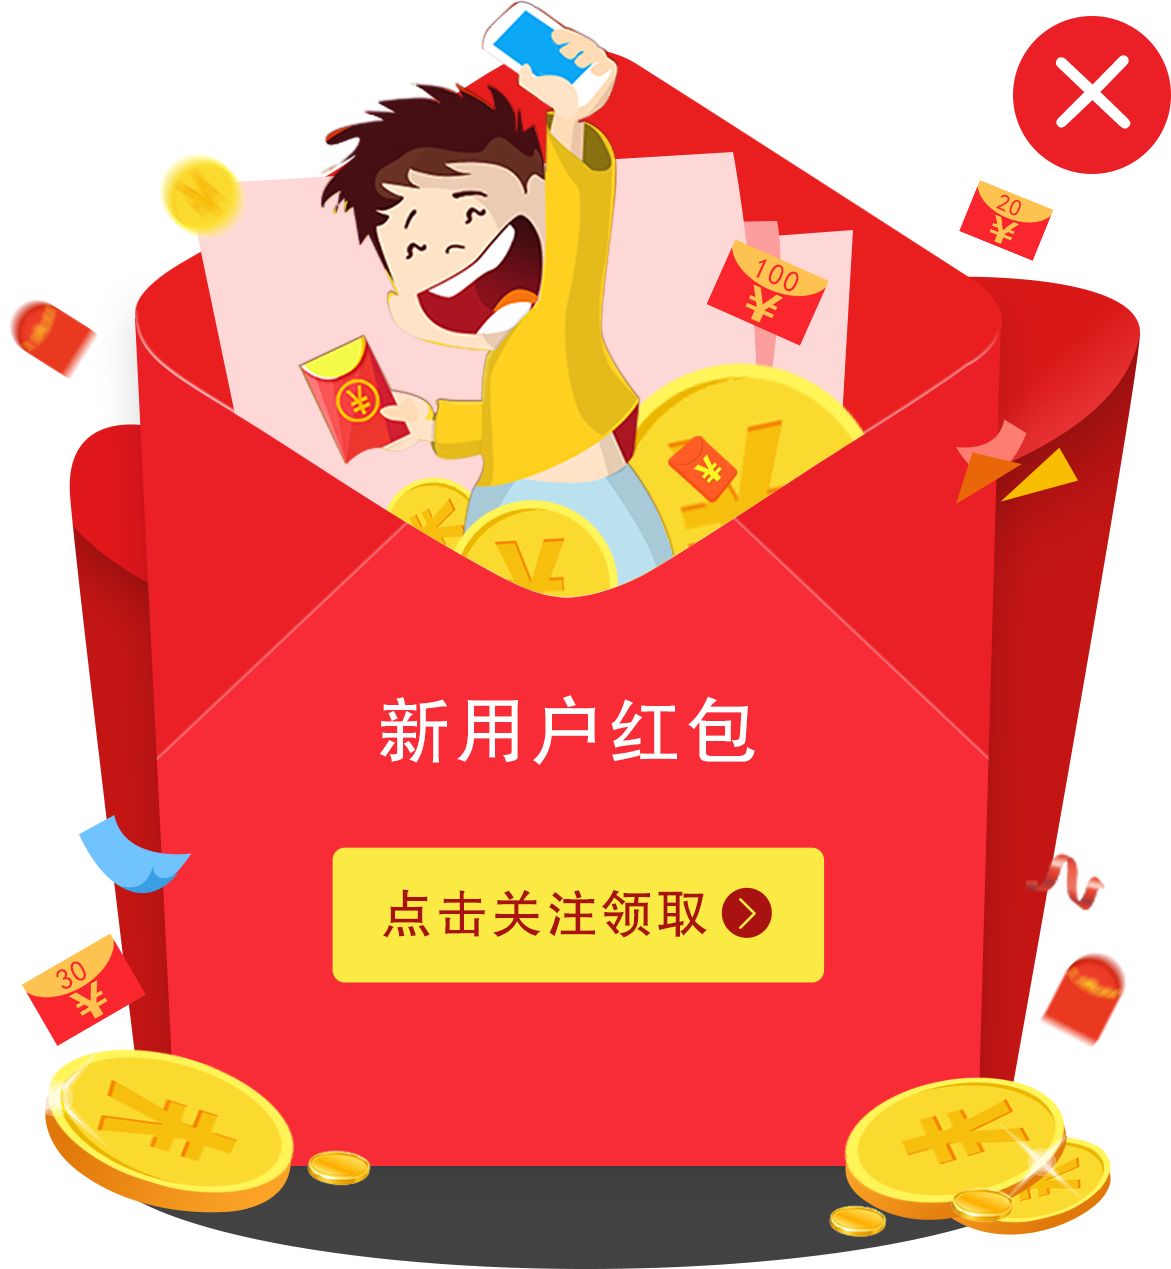
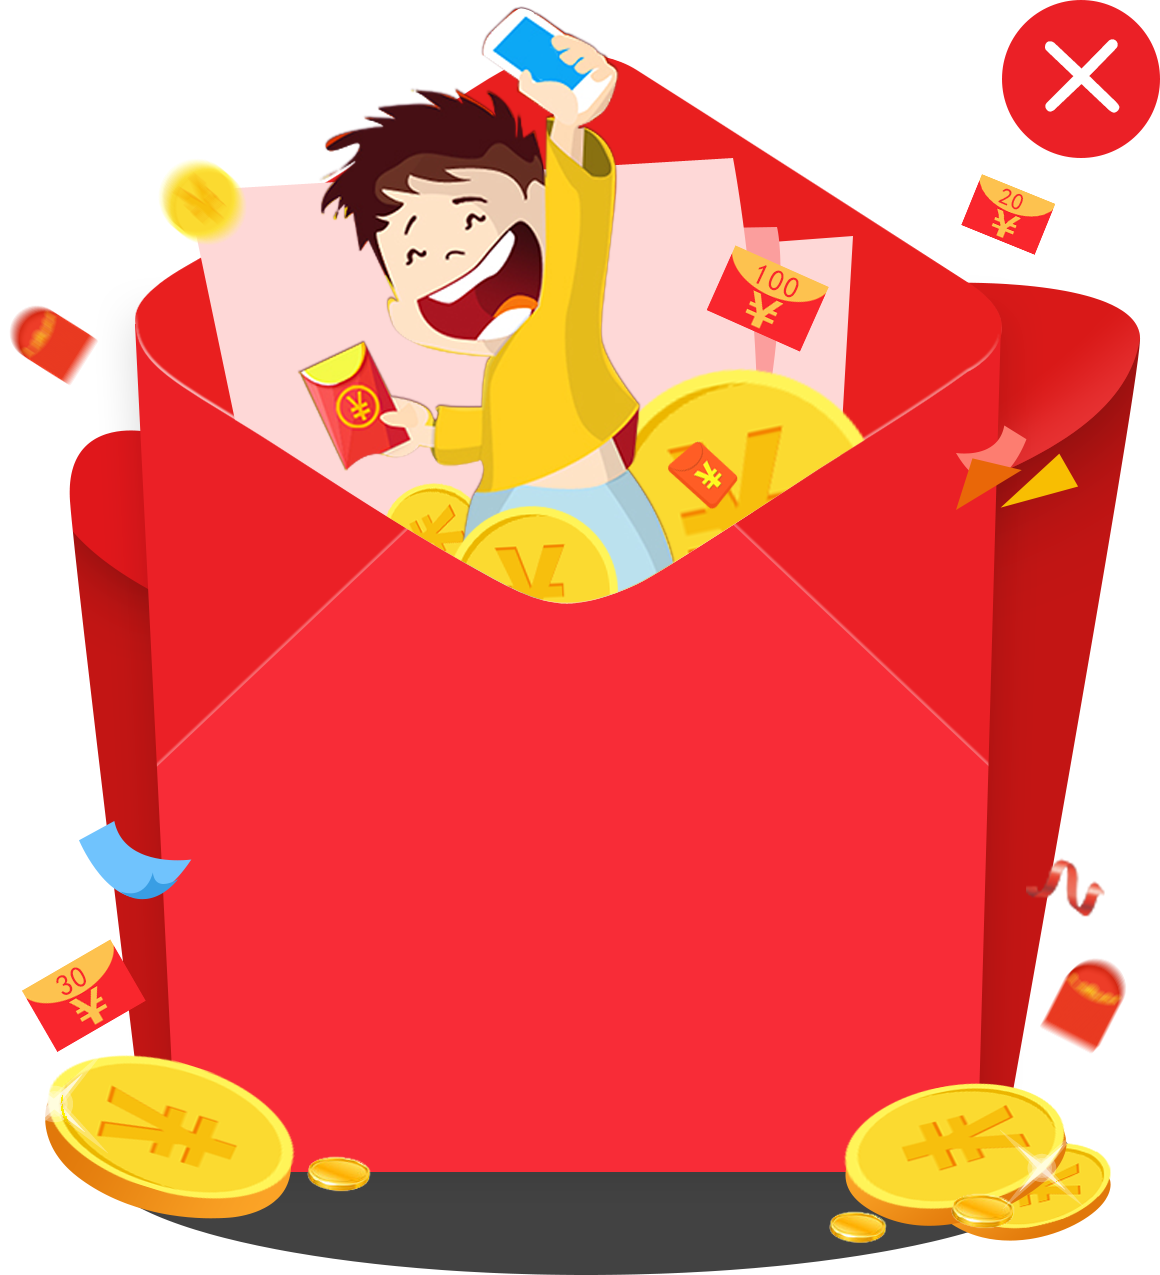
home user get red packet

diff --git a/app/pages/homePage/homePage-controller.js b/app/pages/homePage/homePage-controller.js
@@ -463,17 +463,43 @@ angular.module('homePage.controller', ['homePage.service'])
                     .then(function(json){
                         if(json.status_code == 0){
                             //console.log(angular.toJson(json));
-                            if(json.data.notify && json.data.is_user_followed){
-                                document.getElementById('red-packet').style.display = 'block';
-                                $scope.r_packet = true;
-                                $scope.show_packet = false;
-                            }
 
-                            if(json.data.notify && !json.data.is_user_followed){
+                            if(json.data.notify){
                                 document.getElementById('red-packet').style.display = 'block';
-                                $scope.r_packet = false;
-                                $scope.show_packet = true;
-                                $scope.coupon_count = json.data.coupon_count;
+                                if(json.data.is_user_followed && json.data.new_user){
+                                    //新用户已关注
+                                    $scope.is_new_user = true;
+                                    $scope.is_follow = false;
+
+                                    $scope.new_user_follew_yes = true;
+                                    $scope.new_user_follew_no = false;
+
+                                }else if(!json.data.is_user_followed && json.data.new_user){
+                                    //新用户未关注
+                                    $scope.is_new_user = true;
+                                    $scope.is_follow = false;
+
+                                    $scope.new_user_follew_yes = false;
+                                    $scope.new_user_follew_no = true;
+
+                                }else if(json.data.is_user_followed && !json.data.new_user){
+                                    //用户已关注
+                                    $scope.is_new_user = false;
+                                    $scope.is_follow = true;
+
+                                    $scope.user_follow_yes = true;
+                                    $scope.user_follow_no = false;
+
+                                }else if(!json.data.is_user_followed && !json.data.new_user){
+                                    //用户未关注
+                                    $scope.is_new_user = false;
+                                    $scope.is_follow = true;
+
+                                    $scope.user_follow_yes = false;
+                                    $scope.user_follow_no = true;
+
+                                }
+
                             }
 
                             if(json.data.non_activation_coupons.length > 0){

diff --git a/app/pages/homePage/home-page.html b/app/pages/homePage/home-page.html
@@ -165,18 +165,45 @@
 <div id="red-packet">
 
     <div class="r-p-content">
-        <div class="bg-img" style="background-image: url('img/home/red-packet.png');" ng-if="r_packet">
+        <div class="bg-img" style="background-image: url('img/home/red-packet.png');">
             <i class="close-btn" ng-click="hide_bg()"></i>
-            <a href="{{followus}}" ng-click="hide_bg()">
-                <i class="get-btn"></i>
-            </a>
-        </div>
-        <div class="bg-img" style="background-image: url('img/home/get_coupon.png');" ng-if="show_packet">
-            <i class="close-btn" ng-click="hide_bg()"></i>
-            <i class="get-btn" ng-click="open_view()"></i>
-            <div class="get-c-text">
-                <span>恭喜您获得{{coupon_count}}张优惠券</span>
+
+            <div ng-if="is_follow">
+                <div class="get-c-text">
+                    <span>恭喜您获得{{coupon_count}}张优惠券</span>
+                </div>
+                <a href="{{followus}}" ng-if="user_follow_no">
+                    <div class="get-btn">
+                        <span>点击关注领取</span>
+                        <span class="r-p-btn-arrow"></span>
+                    </div>
+                </a>
+                <a ng-click="open_view()" ng-if="user_follow_yes">
+                    <div class="get-btn">
+                        <span>点击查看</span>
+                        <span class="r-p-btn-arrow"></span>
+                    </div>
+                </a>
             </div>
+
+            <div ng-if="is_new_user">
+                <div class="get-c-text">
+                    <span>新用户红包</span>
+                </div>
+                <a href="{{followus}}" ng-if="new_user_follew_no">
+                    <div class="get-btn">
+                        <span>点击关注领取</span>
+                        <span class="r-p-btn-arrow"></span>
+                    </div>
+                </a>
+                <a ng-click="open_view()" ng-if="new_user_follew_yes">
+                    <div class="get-btn">
+                        <span>点击查看</span>
+                        <span class="r-p-btn-arrow"></span>
+                    </div>
+                </a>
+            </div>
+
         </div>
     </div>
 

diff --git a/app/css/home/homePage.css b/app/css/home/homePage.css
@@ -9,6 +9,10 @@ body, html {
     /*background-color: #F8F8F8*/
 }
 
+i{
+    font-style: normal;
+}
+
 .hd {
     width: 100%;
     height: 44px;
@@ -796,12 +800,32 @@ body, html {
 }
 
 #red-packet .r-p-content .bg-img .get-btn{
-    margin: 0 auto;
-    width: 132px;
-    height: 43px;
+    width: 130px;
+    height: 35px;
+    line-height: 35px;
+    text-align: center;
     position: absolute;
-    left: 58px;
-    bottom: 49px;
+    left: 60px;
+    bottom: 45px;
+    border-radius: 5px;
+    background-color: #FBEA44;
+    font-size: 12px;
+    font-weight: bold;
+    color: #A81110;
+}
+#red-packet .r-p-content .bg-img .get-btn span{
+    margin-right: 5px;
+}
+
+#red-packet .r-p-content .bg-img .get-btn .r-p-btn-arrow{
+    width: 14px;
+    height: 14px;
+    background-size: 100% 100%;
+    background-repeat: no-repeat;
+    background-image: url('../../img/home/coupon-btn-arrow.png');
+    border-radius: 50%;
+    position: absolute;
+    top: 12px;
 }
 
 #red-packet .r-p-content .bg-img .get-c-text{

diff --git a/app/css/coupon/coupon.css b/app/css/coupon/coupon.css
@@ -4,9 +4,9 @@
     font-family: "";
 }
 
-#coupon i{
-    font-style: normal;
-}
+/*#coupon i{*/
+    /*font-style: normal;*/
+/*}*/
 
 #coupon .coupon-content{
 
